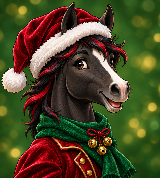
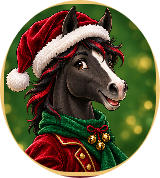
Match Santa Colt’s skin selector portrait to the player header

diff --git a/collectible-shelf.js b/collectible-shelf.js
@@ -83,7 +83,7 @@
     ['Fantasy & Treats', ['treasure-chest','Treasure Chest'], ['phoenix','Phoenix Statue'], ['potion','Enchanted Potion'], ['beignets','Beignet Plate'], ['cupcake','Rose Cupcake']],
     ['Little Animals', ['red-panda','Red Panda Figurine'], ['penguin','Penguin Figurine'], ['axolotl','Axolotl Figurine'], ['hedgehog','Hedgehog Figurine'], ['lucky-cat','Lucky Cat']],
     ['Cozy Keepsakes', ['terrarium','Glass Terrarium'], ['mushroom-house','Mushroom Cottage'], ['lantern','Mini Lantern'], ['music-box','Ballerina Music Box'], ['teacup','Floral Teacup']],
-    ['Curios & Ornaments', ['rubber-duck','Rubber Duck'], ['origami-crane','Origami Crane'], ['ammonite','Ammonite Fossil'], ['geode','Blue Geode'], ['message-bottle','Message in a Bottle'], ['jewelry-box','Jeweled Trinket Box'], ['snowman','Snowman Figurine'], ['pumpkin-lantern','Pumpkin Lantern'], ['daisy-vase','Daisy Vase'], ['sandcastle','Sandcastle Keepsake']]
+    ['Curios & Ornaments', ['rubber-duck','Rubber Duck'], ['origami-crane','Origami Crane'], ['ammonite','Ammonite Fossil'], ['geode','Blue Geode'], ['message-bottle','Message in a Bottle'], ['jewelry-box','Jeweled Trinket Box'], ['pumpkin-lantern','Pumpkin Lantern'], ['daisy-vase','Daisy Vase'], ['sandcastle','Sandcastle Keepsake']]
   ];
   rows.push(
     ['Disney', ['enchanted-rose','Enchanted Rose']],
@@ -186,6 +186,7 @@
   rows.push(['Cats', ['cat-calico-persian-bust','Calico Persian Cat Bust'], ['cat-tortoiseshell-bust','Tortoiseshell Cat Bust']]);
   rows.push(['Christmas', ['christmas-nutcracker','Christmas Nutcracker'], ['christmas-toy-engine','Christmas Toy Engine'], ['christmas-cookie-cottage','Gingerbread Cookie Cottage'], ['christmas-cocoa','Gingerbread Cocoa Mug']]);
   rows.push(['Christmas', ['christmas-reindeer-calf','Scarfed Reindeer Calf'], ['christmas-santa-sleigh','Santa’s Gift Sleigh'], ['christmas-rocking-horse','Clockwork Rocking Horse'], ['christmas-elf-box','Pop-up Christmas Elf']]);
+  rows.push(['Christmas', ['snowman','Snowman Figurine'], ['christmas-mini-tree','Mini Christmas Tree'], ['christmas-santa','Santa and His Toy Sack'], ['christmas-mailbox','Letters to Santa Mailbox'], ['christmas-gift-stack','Wrapped Christmas Presents'], ['christmas-candle-lantern','Christmas Candle Lantern'], ['christmas-teddy','Christmas Sweater Teddy']]);
   const items = rows.flatMap(([category, ...entries], row) => entries.map(([id, name], column) => ({ id, name, category: catIds.has(id) ? 'Cats' : dogIds.has(id) ? 'Dogs' : ['toy-story-rex','toy-story-buzz','toy-story-woody'].includes(id) ? 'Disney' : ['pikachu','eevee'].includes(id) ? 'Pokémon' : id === 'tanjiro' ? 'Anime' : ['cross','church'].includes(id) ? 'Christian Faith' : category, row, column })));
   // Individual artwork bounds avoid neighboring sprites leaking into uneven atlas cells.
   // These are viewport crops only; the original transparent PNG is unmodified.
@@ -199,6 +200,7 @@
   ];
   // Preserve saved shelves when a collectible is replaced.
   const replacements = { 'charizard-flames':'pokemon-charizard-statue', 'bulbasaur-vines':'pokemon-bulbasaur-statue', 'gengar-flames':'pokemon-gengar-statue', 'dragonite-pillow':'pokemon-dragonite-statue', growlithe:'none', 'ash-pikachu':'none', 'mew-console':'pokemon-mew-statue', medal:'tanjiro', 'electric-guitar':'ceramic-fox', 'drum-kit':'succulent', violin:'hourglass', 'grand-piano':'mantel-clock', 'race-car':'none', 'superhero-falcon-bust':'none', 'superhero-hawkeye-bust':'none', elsa:'none', beast:'none', anna:'disney-anna-bust', jasmine:'disney-jasmine-bust', belle:'disney-belle-bust', ariel:'disney-ariel-bust' };
+  replacements['christmas-bells'] = 'christmas-gift-stack';
   replacements['avatar-aang-water-statue'] = 'none';
   replacements['superhero-falcon-bust'] = 'superhero-falcon-statue';
   const ids = new Set(['none', ...Object.keys(replacements), ...items.map(item => item.id)]);
@@ -206,6 +208,12 @@
   const clean = value => valid(value) ? { enabled: value.enabled, slots: value.slots.map(id => replacements[id] || id), theme:value.theme || 'crimson' } : { enabled: true, slots: ['horse', 'crystal', 'planet'], theme:'crimson' };
   const name = id => items.find(item => item.id === id)?.name || 'Empty spot';
   const standalone = {
+    'christmas-mini-tree': {source:'assets/shelf-christmas-mantel.png',width:1536,height:1024,bounds:[101,3,329,491],displaySize:240},
+    'christmas-santa': {source:'assets/shelf-christmas-mantel.png',width:1536,height:1024,bounds:[577,0,391,495]},
+    'christmas-mailbox': {source:'assets/shelf-christmas-mantel.png',width:1536,height:1024,bounds:[1140,0,280,493]},
+    'christmas-gift-stack': {source:'assets/shelf-christmas-gift-stack.png',width:1254,height:1254,bounds:[182,27,879,1188],displaySize:250},
+    'christmas-candle-lantern': {source:'assets/shelf-christmas-mantel.png',width:1536,height:1024,bounds:[618,515,299,502]},
+    'christmas-teddy': {source:'assets/shelf-christmas-mantel.png',width:1536,height:1024,bounds:[1098,519,393,497]},
     'christmas-reindeer-calf': {source:'assets/shelf-christmas-workshop-keepsakes.png',width:1254,height:1254,bounds:[162,4,349,582]},
     'christmas-santa-sleigh': {source:'assets/shelf-christmas-workshop-keepsakes.png',width:1254,height:1254,bounds:[628,52,589,477]},
     'christmas-rocking-horse': {source:'assets/shelf-christmas-workshop-keepsakes.png',width:1254,height:1254,bounds:[38,637,584,585]},
@@ -749,8 +757,8 @@
       dialog.querySelector('#shelfSearchLabel').textContent=tab==='objects'?'Search objects':'Search shelves';
       search.placeholder=tab==='objects'?'Search '+items.length+' collectibles…':'Search shelf styles…';
       const terms=searches[tab].toLowerCase().trim().split(/\s+/).filter(Boolean);
-      const pool=tab==='objects'?items.filter(item=>!category.value || item.category===category.value).sort((a,b)=>a.name.localeCompare(b.name)):[...themes].sort((a,b)=>a.name.localeCompare(b.name));
-      const matches=pool.filter(item=>terms.every(term=>(item.name+' '+(item.category||'')).toLowerCase().includes(term)));
+      const pool=tab==='objects'?items.filter(item=>!category.value || item.category===category.value || (category.value==='Christmas' && item.id==='holy-family')).sort((a,b)=>a.name.localeCompare(b.name)):[...themes].sort((a,b)=>a.name.localeCompare(b.name));
+      const matches=pool.filter(item=>terms.every(term=>(item.name+' '+(item.category||'')+(item.id==='holy-family'?' Christmas':'')).toLowerCase().includes(term)));
       const size=pageSize(), count=Math.max(1,Math.ceil(matches.length/size));
       // A page number is not a stable browsing position when capacity changes.
       // Keep the focused object (or the original leading object) on screen.

diff --git a/index.html b/index.html
@@ -35,7 +35,7 @@
   <link rel="stylesheet" href="profile-name-styles.css?v=20261016-more-styles-v6">
   <script src="profile-name-styles.js?v=20261016-paged-styles-v4"></script>
   <script src="profile-banners.js?v=20261016-banner-glow-v23"></script>
-<script src="collectible-shelf.js?v=20261118-christmas-workshop"></script>
+<script src="collectible-shelf.js?v=20261118-christmas-presents"></script>
   <link rel="stylesheet" href="my-launchpad.css?v=20261029-visual-v4">
   <link rel="stylesheet" href="my-launchpad-dock.css?v=20261029-dock-v5">
   <link rel="stylesheet" href="my-launchpad-guest.css?v=20261030-guest-v1">
